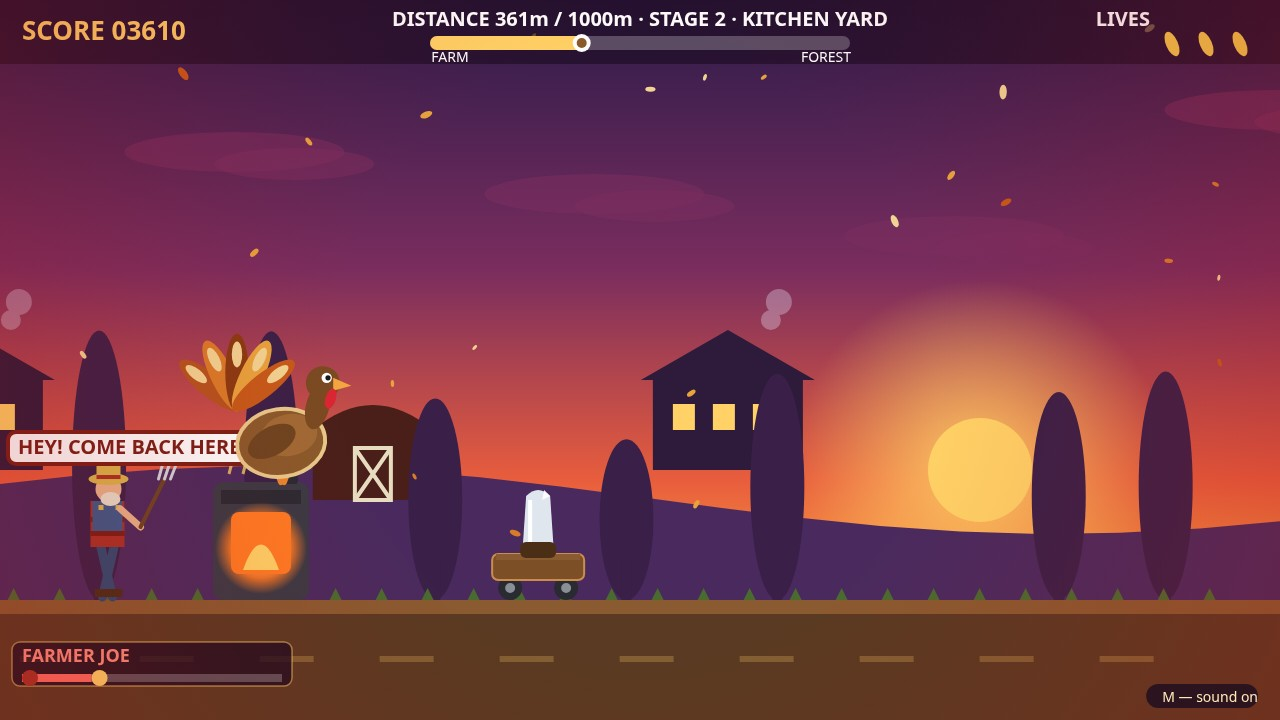
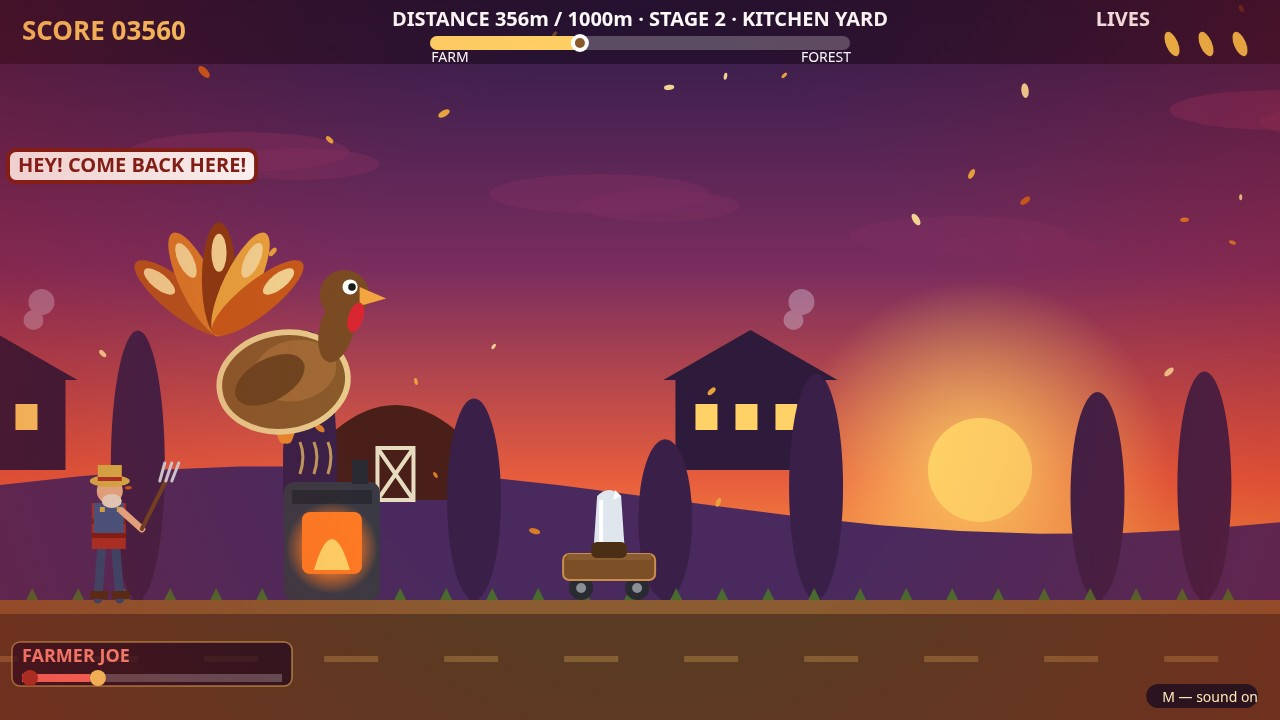
Revision v5: turkey 1.9x bigger, shout bubble clear of the bird, title pair shifted left, shorter instruction line 2

diff --git a/game/src/config.js b/game/src/config.js
@@ -13,11 +13,13 @@ const CFG = {
   turkeyHeight: 84,
   turkeyDuckHeight: 46,
   // Draw-only scale for the standing pose: the bird renders bigger on
-  // screen (field covers show heroes 1.5-3x ours) while the hitbox,
-  // jump physics and floor all keep using turkeyWidth/turkeyHeight, so
-  // the run plays exactly as before. The duck pose is NOT scaled: its
-  // head must stay clear of the hanging branch leaves.
-  turkeyDrawScale: 1.3,
+  // screen (field covers show heroes 1.5-3x ours; the strongest, Gobble
+  // Dash, is ~290px tall at 1280-wide) while the hitbox, jump physics
+  // and floor all keep using turkeyWidth/turkeyHeight, so the run plays
+  // exactly as before. At 1.9 the tail stands ~205px tall. The duck
+  // pose is NOT scaled: its head must stay clear of the hanging branch
+  // leaves.
+  turkeyDrawScale: 1.9,
   jumpVelocity: 1000,
   gravity: 2900,
 

diff --git a/game/src/hud.js b/game/src/hud.js
@@ -173,7 +173,10 @@ function hudDrawTitle(ctx, game) {
   ctx.font = '19px system-ui, sans-serif';
   ctx.fillStyle = '#ffffff';
   ctx.fillText('SPACE / CLICK — jump      DOWN — duck under low branches', w / 2, 414);
-  ctx.fillText('Jump the fences, hay bales, the glowing oven and the knife cart. Grab corn for points.', w / 2, 444);
+  // Line 2 is the longest: it starts at x ~325, clear of the 1.9x
+  // bird's beak (which reaches x ~296 on the title screen). Keep it
+  // short enough that the turkey never covers its first word.
+  ctx.fillText('Jump the fences, hay bales, ovens and knife carts. Grab corn for points.', w / 2, 444);
   ctx.fillText('Three feathers gone — or the gap gone — and you are caught.', w / 2, 474);
 
   // Start button.

diff --git a/game/src/main.js b/game/src/main.js
@@ -160,8 +160,15 @@ function gameDraw() {
     if (Game.state === 'paused') hudDrawPause(ctx);
   } else if (Game.state === 'title') {
     hudDrawTitle(ctx, Game);
-    farmerDraw(ctx, Game.turkey.x, farmerGap, Game.time);
+    // The 1.9x bird would cover the left end of the instruction lines
+    // (its beak reaches x ~386, line 2 starts ~x 222), so on the title
+    // screen the farmer and the turkey stand 90px further left, clear
+    // of the text. Relative spacing is unchanged; only the pair moves.
+    farmerDraw(ctx, Game.turkey.x - 90, farmerGap, Game.time);
+    ctx.save();
+    ctx.translate(-90, 0);
     turkeyDraw(ctx, Game.turkey, Game.time);
+    ctx.restore();
   } else {
     hudDraw(ctx, Game);
     hudDrawEnd(ctx, Game);

diff --git a/game/src/farmer.js b/game/src/farmer.js
@@ -102,7 +102,10 @@ function farmerDraw(ctx, turkeyX, gap, time) {
     const label = 'HEY! COME BACK HERE!';
     const w = ctx.measureText(label).width + 20;
     const bx = Math.max(8, x - w / 2);
-    const by = y - 168;
+    // High under the HUD, not above the farmer's head: the 1.9x bird's
+    // tail reaches y ~223 even mid-jump, so a bubble at head height
+    // would hide behind it. Up here it clears the bird in every phase.
+    const by = 150;
     ctx.beginPath();
     ctx.roundRect(bx, by, w, 32, 8);
     ctx.fill();
